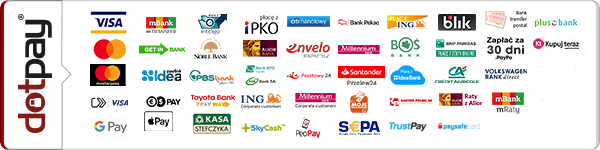
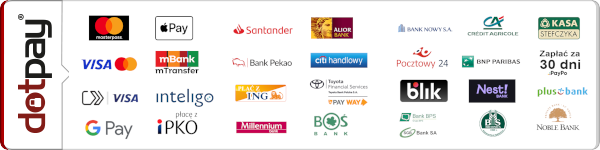
v1.2.1
- added new address to whitelist for notifications!
- a switch was added in the configuration to a specific api if the account has already been migrated from dotpay to Przelewy24
- update of bank ow bank logos in banner

diff --git a/app/code/local/Dotpay/Dotpay/Model/Api/Next.php b/app/code/local/Dotpay/Dotpay/Model/Api/Next.php
@@ -96,6 +96,7 @@ class Dotpay_Dotpay_Model_Api_Next extends Dotpay_Dotpay_Model_Api_Api {
 
             $MagentoVersion = Mage::getVersion();
             $DPmoduleVersion = Mage::getConfig()->getNode()->modules->Dotpay_Dotpay->version;
+            $is_dp_proxy = (int)Mage::getModel('dotpay/paymentMethod')->getConfigData('dproxy_migrated');
 
 
         $data = array(
@@ -107,7 +108,7 @@ class Dotpay_Dotpay_Model_Api_Next extends Dotpay_Dotpay_Model_Api_Api {
             'email'       => (string)$billing->getEmail() ? $billing->getEmail() : $order->getCustomerEmail(),
 			'firstname'   => (string)$this->NewPersonName($firstnameFix),
 			'lastname'    => (string)$this->NewPersonName($lastnameFix),
-            'control'     => (string)$order->getRealOrderId().'|Magento v.'.$MagentoVersion.'|DP module v: '.$DPmoduleVersion ,
+            'control'     => (string)$order->getRealOrderId().'|Magento v.'.$MagentoVersion.'|DP module v: '.$DPmoduleVersion.' dp-p24 migrated: '.$is_dp_proxy ,
             'url'         => (string)str_replace('?___SID=U', '', Mage::getUrl('dotpay/processing/status')),
             'urlc'        => (string)str_replace('?___SID=U', '', Mage::getUrl('dotpay/notification')),
             'api_version' => (string)self::API_VERSION,

diff --git a/app/code/local/Dotpay/Dotpay/Model/PaymentMethod.php b/app/code/local/Dotpay/Dotpay/Model/PaymentMethod.php
@@ -69,13 +69,23 @@ class Dotpay_Dotpay_Model_PaymentMethod extends Mage_Payment_Model_Method_Abstra
      * @return string
      */
     public function getRedirectUrl() {
-        if (!$this->getConfigData('test') && $this->getConfigData('apiversion') == 'next') {
-            return $this->getConfigData('redirect_url');
-        } else if ($this->getConfigData('apiversion') == 'next') {
-            return $this->getConfigData('redirect_url_test');
-        } else {
-            return $this->getConfigData('redirect_url_legacy');
+
+        if ($this->getConfigData('dproxy_migrated') && !$this->getConfigData('test')){
+            
+            return $this->getConfigData('redirect_url_dproxy');
+
+        }else{
+                
+            if (!$this->getConfigData('test') && $this->getConfigData('apiversion') == 'next') {
+                return $this->getConfigData('redirect_url');
+            } else if ($this->getConfigData('apiversion') == 'next') {
+                return $this->getConfigData('redirect_url_test');
+            } else {
+                return $this->getConfigData('redirect_url_legacy');
+            }
+            
         }
+
     }
     
     /**

diff --git a/app/code/local/Dotpay/Dotpay/controllers/NotificationController.php b/app/code/local/Dotpay/Dotpay/controllers/NotificationController.php
@@ -39,6 +39,7 @@ class Dotpay_Dotpay_NotificationController extends Mage_Core_Controller_Front_Ac
         '91.216.191.183',
         '91.216.191.184',
         '91.216.191.185',
+        '5.252.202.254 ',
         '5.252.202.255',
         );
     
@@ -221,6 +222,7 @@ class Dotpay_Dotpay_NotificationController extends Mage_Core_Controller_Front_Ac
                 "--- Dotpay PLN ---"."<br>".
                 "ID: ".Mage::getModel('dotpay/paymentMethod')->getConfigData('id')."<br>".
                 "API Version: ".Mage::getModel('dotpay/paymentMethod')->getConfigData('apiversion')."<br>".
+                "Account migrated to P24: ".(int)Mage::getModel('dotpay/paymentMethod')->getConfigData('dproxy_migrated')."<br>".
                 "Test Mode: ".(int)Mage::getModel('dotpay/paymentMethod')->getConfigData('test')."<br>".
                 "Server does not use a proxy: ".(int)Mage::getModel('dotpay/paymentMethod')->getConfigData('nonproxy')."<br>".
                 "Email Invoice: ".(int)Mage::getModel('dotpay/paymentMethod')->getConfigData('invoice')."<br>".

diff --git a/app/code/local/Dotpay/Dotpay/Block/Redirect.php b/app/code/local/Dotpay/Dotpay/Block/Redirect.php
@@ -105,6 +105,15 @@ class Dotpay_Dotpay_Block_Redirect extends Mage_Core_Block_Template {
 
 
     /**
+     * Checks if this account was migrated from dotpay to Przelewy24 Api
+     * @return boolean
+     */
+    public function isMigratedtoP24() {
+        return ($this->getMethodInstance()->getConfigData('dproxy_migrated'));
+    }
+
+
+    /**
      * Checks, if widget mode is switch on
      * @return boolean
      */
